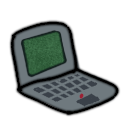
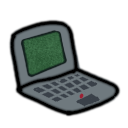
add interactables

Changed region(s): [[0.0625, 0.1562, 0.875, 0.9062], [0.625, 0.5312, 0.9375, 0.7812]]

diff --git a/public/javascript/interactables.js b/public/javascript/interactables.js
@@ -1,0 +1,69 @@
+import * as twgl from '../javascript/lib/twgl-full.module.js'
+import { gl, W, H } from './canvas.js'
+import * as sprite from './sprite.js'
+import * as player from './Player.js'
+import { hookPreload } from './hooks.js';
+import { loadShader, camera } from './render.js'
+
+/**
+ * @typedef Interactable
+ * @property {number} id
+ * @property {string} name
+ * @property {Vector} pos
+ * @property {string} sprite
+ */
+
+/** @type {Interactable[]} */
+export const interactables = [];
+
+let highlightShader;
+hookPreload(async () => {
+    highlightShader = twgl.createProgramInfo(gl, [await loadShader("vertex"), await loadShader("f_highlight")])
+});
+
+/**
+ * 
+ * @param {Interactable} interactable 
+ * @param {any} cb 
+ */
+export const addInteractable = async (interactable, cb) => {
+    interactable._sprite = await sprite.getSprite(gl, interactable.sprite)
+    interactable.id = interactables.length;
+    interactables.push(interactable);
+    return interactable;
+}
+
+export const drawInteractables = () => {
+    for (let obj of interactables) {
+        gl.stencilMask(0x00);
+        gl.stencilFunc(gl.ALWAYS, 0, 0xff);
+
+        drawHighlight(obj.id, [1, 0, 0, 1]);
+        sprite.drawSprite(gl, obj._sprite, obj.pos, true)
+    }
+}
+
+/**
+ * 
+ * @param {number} interactableID ID of interactable
+ * @param {[number,number,number,number]} tint 
+ */
+export const drawHighlight = (interactableID, tint) => {
+    const obj = interactables[interactableID]
+    // gl.enable(gl.DEPTH_TEST);
+    gl.disable(gl.DEPTH_TEST);
+    gl.depthMask(false);
+    sprite.drawTex(gl, obj._sprite, {
+        x: obj.pos.x,
+        y: obj.pos.y,
+        z: -obj.pos.y + 0.01,
+    },
+        camera.pos,
+        [1.1, 1.1],
+        highlightShader,
+        {
+            u_tint: tint,
+            u_cutThreshold: 0,
+        });
+    gl.depthMask(true);
+}

diff --git a/public/javascript/game.js b/public/javascript/game.js
@@ -20,6 +20,7 @@ import { drawUI, tickUI } from './ui/ui.js'
 import { doPlayerPhysics } from './physics.js'
 import { lineIntersect } from './util/raycasts.js'
 import { hookPreload, preloadHooks } from './hooks.js'
+import { drawInteractables, addInteractable } from './interactables.js'
 
 /** @type {SocketIO.Socket} */
 const socket = io('/' + sessionStorage.getItem('code'), {
@@ -121,6 +122,13 @@ addObject(gl, {
     w: 1.7,
     h: 1,
   }
+});
+
+addInteractable({
+  pos: new Vector(-1, -1),
+  sprite: "laptop",
+}, () => {
+
 });
 
 /** @type {{[id: string] : Player}} */
@@ -389,6 +397,10 @@ const draw = async (dt) => {
   }
   if (closestPlayer)
     closestPlayer.drawHighlight(gl, [1, 0, 0, 1]);
+
+  gl.disable(gl.DEPTH_TEST)
+  drawInteractables();
+  gl.enable(gl.DEPTH_TEST)
 
   gl.stencilFunc(gl.EQUAL, 1, 0xff);
   gl.depthMask(false); // dont write to depth buffer
